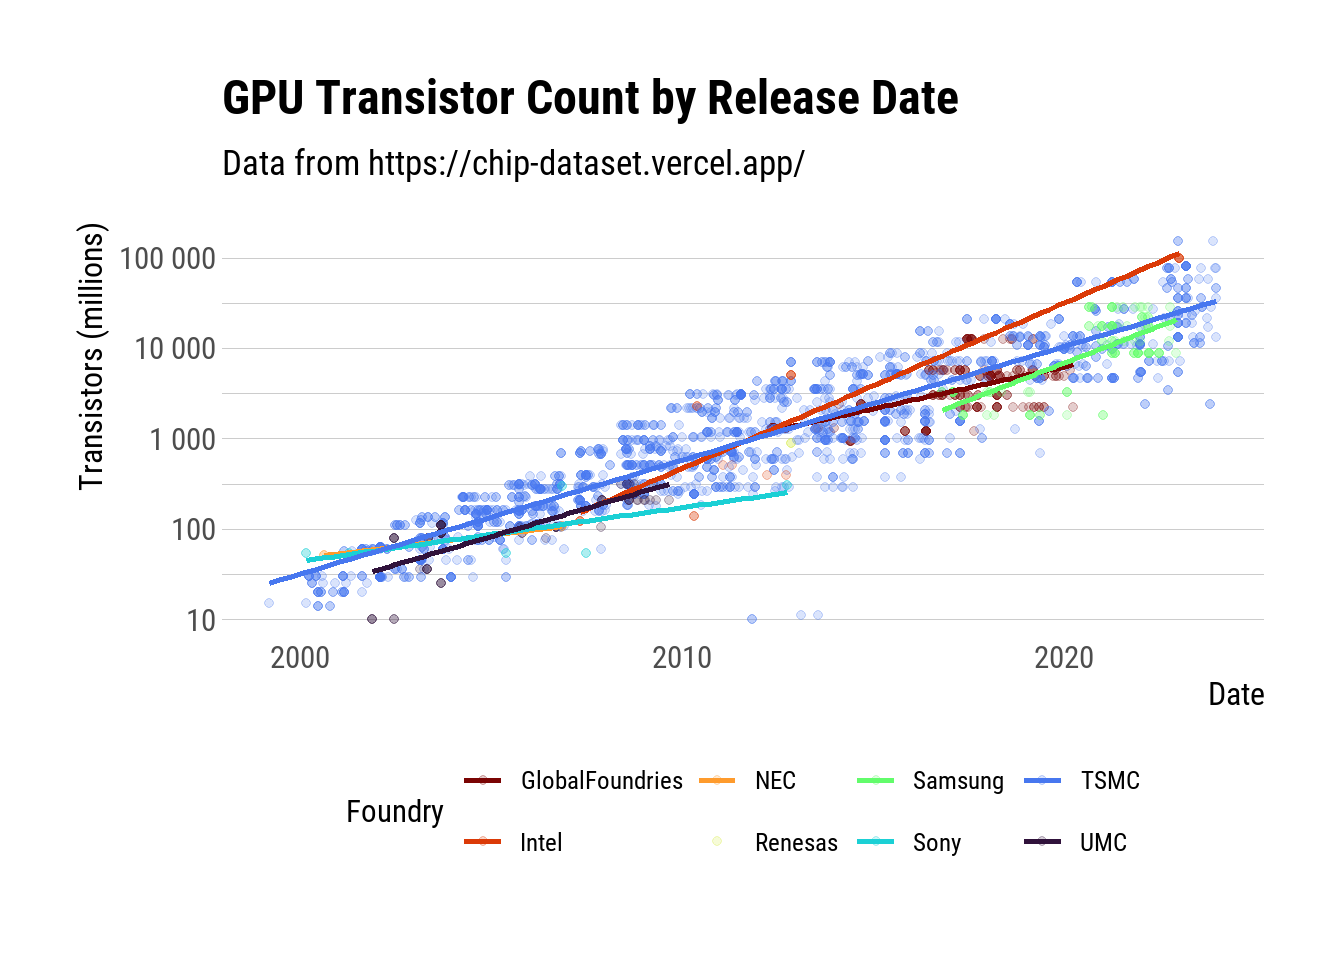
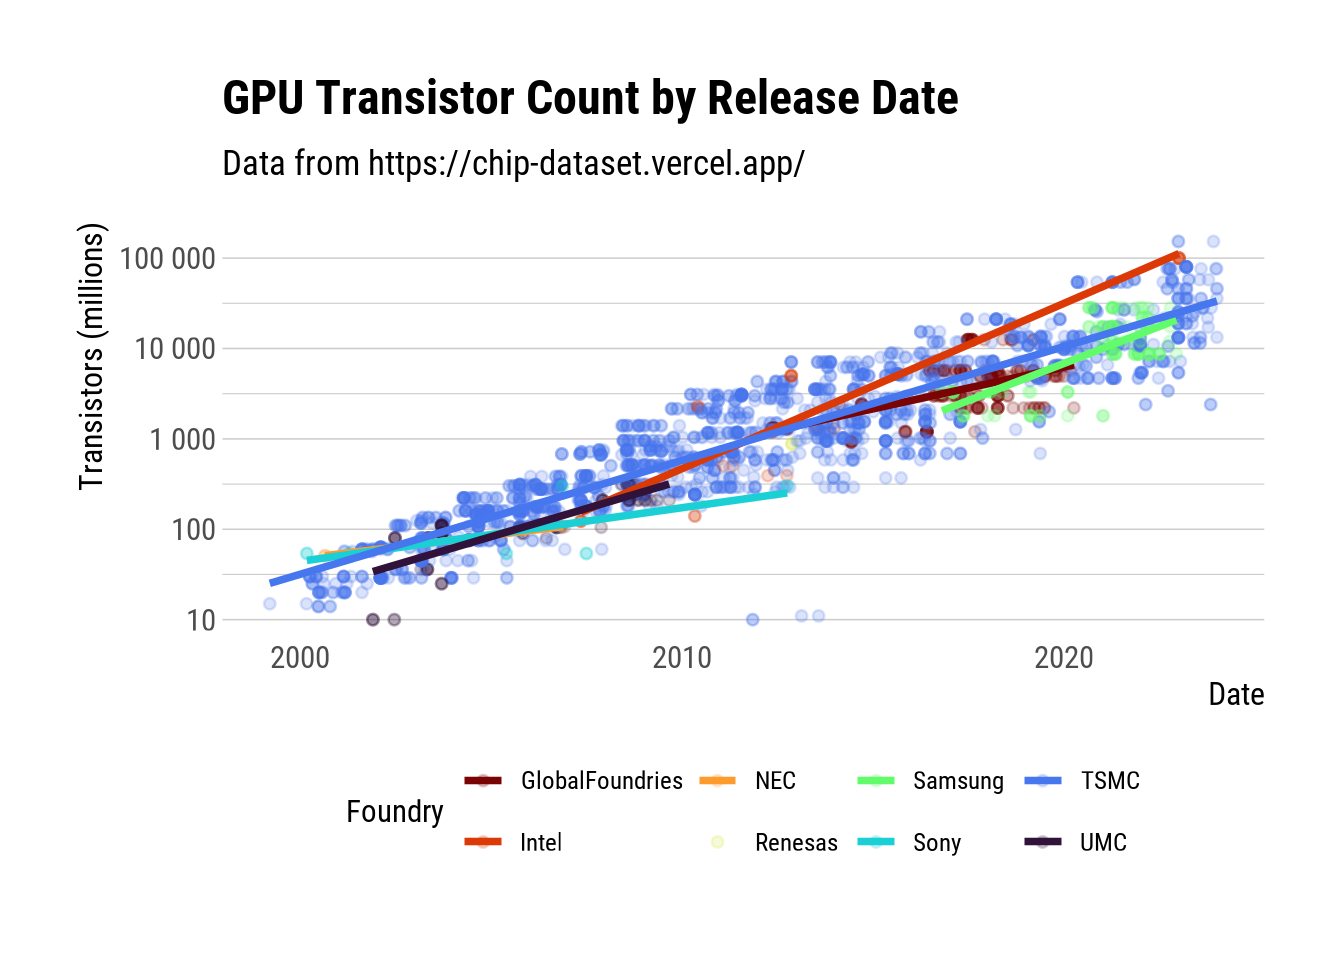
update

Changed region(s): [[0.2188, 0.25, 0.9062, 0.6562], [0.5938, 0.625, 0.625, 0.6562]]

diff --git a/docs/posts/plot_design.html b/docs/posts/plot_design.html
@@ -207,6 +207,12 @@ pre > code.sourceCode > span > a:first-child::before { text-decoration: underlin
     </div>
   </div>
   
+    <div>
+    <div class="quarto-title-meta-heading">Modified</div>
+    <div class="quarto-title-meta-contents">
+      <p class="date-modified">April 9, 2025</p>
+    </div>
+  </div>
     
   </div>
   
@@ -220,28 +226,29 @@ pre > code.sourceCode > span > a:first-child::before { text-decoration: underlin
 <p>Let’s create a rough figure, and see how we can improve it in a few simple steps.</p>
 <div class="cell">
 <div class="sourceCode cell-code" id="cb1"><pre class="sourceCode markdown code-with-copy"><code class="sourceCode markdown"><span id="cb1-1"><a href="#cb1-1" aria-hidden="true" tabindex="-1"></a><span class="in">```{r}</span></span>
-<span id="cb1-2"><a href="#cb1-2" aria-hidden="true" tabindex="-1"></a><span class="in">#| fig-cap: "A rough figure"</span></span>
-<span id="cb1-3"><a href="#cb1-3" aria-hidden="true" tabindex="-1"></a></span>
-<span id="cb1-4"><a href="#cb1-4" aria-hidden="true" tabindex="-1"></a><span class="in">library(ggplot2)</span></span>
-<span id="cb1-5"><a href="#cb1-5" aria-hidden="true" tabindex="-1"></a><span class="in">library(dplyr)</span></span>
-<span id="cb1-6"><a href="#cb1-6" aria-hidden="true" tabindex="-1"></a><span class="in">library(lubridate)</span></span>
-<span id="cb1-7"><a href="#cb1-7" aria-hidden="true" tabindex="-1"></a></span>
-<span id="cb1-8"><a href="#cb1-8" aria-hidden="true" tabindex="-1"></a><span class="in">chips &lt;- read.csv("chip_dataset.csv")</span></span>
-<span id="cb1-9"><a href="#cb1-9" aria-hidden="true" tabindex="-1"></a></span>
-<span id="cb1-10"><a href="#cb1-10" aria-hidden="true" tabindex="-1"></a><span class="in">chips &lt;- chips |&gt; </span></span>
-<span id="cb1-11"><a href="#cb1-11" aria-hidden="true" tabindex="-1"></a><span class="in">  mutate(Date = mdy(Release.Date),</span></span>
-<span id="cb1-12"><a href="#cb1-12" aria-hidden="true" tabindex="-1"></a><span class="in">         transistors = as.numeric(Transistors..million.)) |&gt;</span></span>
-<span id="cb1-13"><a href="#cb1-13" aria-hidden="true" tabindex="-1"></a><span class="in">  filter(Foundry != "" &amp;</span></span>
-<span id="cb1-14"><a href="#cb1-14" aria-hidden="true" tabindex="-1"></a><span class="in">           Type == "GPU" &amp;</span></span>
-<span id="cb1-15"><a href="#cb1-15" aria-hidden="true" tabindex="-1"></a><span class="in">           !is.na(Date) &amp;</span></span>
-<span id="cb1-16"><a href="#cb1-16" aria-hidden="true" tabindex="-1"></a><span class="in">           !is.na(transistors))</span></span>
-<span id="cb1-17"><a href="#cb1-17" aria-hidden="true" tabindex="-1"></a></span>
-<span id="cb1-18"><a href="#cb1-18" aria-hidden="true" tabindex="-1"></a><span class="in">chips |&gt; </span></span>
-<span id="cb1-19"><a href="#cb1-19" aria-hidden="true" tabindex="-1"></a><span class="in">  ggplot(aes(x = Date, </span></span>
-<span id="cb1-20"><a href="#cb1-20" aria-hidden="true" tabindex="-1"></a><span class="in">           y = transistors, </span></span>
-<span id="cb1-21"><a href="#cb1-21" aria-hidden="true" tabindex="-1"></a><span class="in">           color = Foundry)) +</span></span>
-<span id="cb1-22"><a href="#cb1-22" aria-hidden="true" tabindex="-1"></a><span class="in">    geom_point()</span></span>
-<span id="cb1-23"><a href="#cb1-23" aria-hidden="true" tabindex="-1"></a><span class="in">```</span></span></code><button title="Copy to Clipboard" class="code-copy-button"><i class="bi"></i></button></pre></div>
+<span id="cb1-2"><a href="#cb1-2" aria-hidden="true" tabindex="-1"></a><span class="in">#| dev: "CairoPNG" </span></span>
+<span id="cb1-3"><a href="#cb1-3" aria-hidden="true" tabindex="-1"></a><span class="in">#| fig-cap: "A rough figure"</span></span>
+<span id="cb1-4"><a href="#cb1-4" aria-hidden="true" tabindex="-1"></a></span>
+<span id="cb1-5"><a href="#cb1-5" aria-hidden="true" tabindex="-1"></a><span class="in">library(ggplot2)</span></span>
+<span id="cb1-6"><a href="#cb1-6" aria-hidden="true" tabindex="-1"></a><span class="in">library(dplyr)</span></span>
+<span id="cb1-7"><a href="#cb1-7" aria-hidden="true" tabindex="-1"></a><span class="in">library(lubridate)</span></span>
+<span id="cb1-8"><a href="#cb1-8" aria-hidden="true" tabindex="-1"></a></span>
+<span id="cb1-9"><a href="#cb1-9" aria-hidden="true" tabindex="-1"></a><span class="in">chips &lt;- read.csv("chip_dataset.csv")</span></span>
+<span id="cb1-10"><a href="#cb1-10" aria-hidden="true" tabindex="-1"></a></span>
+<span id="cb1-11"><a href="#cb1-11" aria-hidden="true" tabindex="-1"></a><span class="in">chips &lt;- chips |&gt; </span></span>
+<span id="cb1-12"><a href="#cb1-12" aria-hidden="true" tabindex="-1"></a><span class="in">  mutate(Date = mdy(Release.Date),</span></span>
+<span id="cb1-13"><a href="#cb1-13" aria-hidden="true" tabindex="-1"></a><span class="in">         transistors = as.numeric(Transistors..million.)) |&gt;</span></span>
+<span id="cb1-14"><a href="#cb1-14" aria-hidden="true" tabindex="-1"></a><span class="in">  filter(Foundry != "" &amp;</span></span>
+<span id="cb1-15"><a href="#cb1-15" aria-hidden="true" tabindex="-1"></a><span class="in">           Type == "GPU" &amp;</span></span>
+<span id="cb1-16"><a href="#cb1-16" aria-hidden="true" tabindex="-1"></a><span class="in">           !is.na(Date) &amp;</span></span>
+<span id="cb1-17"><a href="#cb1-17" aria-hidden="true" tabindex="-1"></a><span class="in">           !is.na(transistors))</span></span>
+<span id="cb1-18"><a href="#cb1-18" aria-hidden="true" tabindex="-1"></a></span>
+<span id="cb1-19"><a href="#cb1-19" aria-hidden="true" tabindex="-1"></a><span class="in">chips |&gt; </span></span>
+<span id="cb1-20"><a href="#cb1-20" aria-hidden="true" tabindex="-1"></a><span class="in">  ggplot(aes(x = Date, </span></span>
+<span id="cb1-21"><a href="#cb1-21" aria-hidden="true" tabindex="-1"></a><span class="in">           y = transistors, </span></span>
+<span id="cb1-22"><a href="#cb1-22" aria-hidden="true" tabindex="-1"></a><span class="in">           color = Foundry)) +</span></span>
+<span id="cb1-23"><a href="#cb1-23" aria-hidden="true" tabindex="-1"></a><span class="in">    geom_point()</span></span>
+<span id="cb1-24"><a href="#cb1-24" aria-hidden="true" tabindex="-1"></a><span class="in">```</span></span></code><button title="Copy to Clipboard" class="code-copy-button"><i class="bi"></i></button></pre></div>
 <div class="cell-output-display">
 <div class="quarto-figure quarto-figure-center">
 <figure class="figure">
@@ -265,30 +272,31 @@ pre > code.sourceCode > span > a:first-child::before { text-decoration: underlin
 <p>We’ll apply the tips described above, as well as rescaling the y-axis and adding some trendlines. Do you think this is a more effective figure?</p>
 <div class="cell">
 <div class="sourceCode cell-code" id="cb2"><pre class="sourceCode markdown code-with-copy"><code class="sourceCode markdown"><span id="cb2-1"><a href="#cb2-1" aria-hidden="true" tabindex="-1"></a><span class="in">```{r}</span></span>
-<span id="cb2-2"><a href="#cb2-2" aria-hidden="true" tabindex="-1"></a><span class="in">#| label: feature-image</span></span>
-<span id="cb2-3"><a href="#cb2-3" aria-hidden="true" tabindex="-1"></a><span class="in">#| fig-cap: "The final figure"</span></span>
-<span id="cb2-4"><a href="#cb2-4" aria-hidden="true" tabindex="-1"></a></span>
-<span id="cb2-5"><a href="#cb2-5" aria-hidden="true" tabindex="-1"></a><span class="in">library(hrbrthemes)</span></span>
-<span id="cb2-6"><a href="#cb2-6" aria-hidden="true" tabindex="-1"></a><span class="in">library(sysfonts)</span></span>
-<span id="cb2-7"><a href="#cb2-7" aria-hidden="true" tabindex="-1"></a><span class="in">library(viridis)</span></span>
-<span id="cb2-8"><a href="#cb2-8" aria-hidden="true" tabindex="-1"></a><span class="in">library(scales)</span></span>
-<span id="cb2-9"><a href="#cb2-9" aria-hidden="true" tabindex="-1"></a></span>
-<span id="cb2-10"><a href="#cb2-10" aria-hidden="true" tabindex="-1"></a><span class="in">font_add_google("Roboto Condensed")</span></span>
-<span id="cb2-11"><a href="#cb2-11" aria-hidden="true" tabindex="-1"></a></span>
-<span id="cb2-12"><a href="#cb2-12" aria-hidden="true" tabindex="-1"></a><span class="in">chips |&gt;</span></span>
-<span id="cb2-13"><a href="#cb2-13" aria-hidden="true" tabindex="-1"></a><span class="in">  ggplot(aes(x = Date, y = transistors, color = Foundry)) +</span></span>
-<span id="cb2-14"><a href="#cb2-14" aria-hidden="true" tabindex="-1"></a><span class="in">  geom_point(alpha = 0.2) +</span></span>
-<span id="cb2-15"><a href="#cb2-15" aria-hidden="true" tabindex="-1"></a><span class="in">  geom_smooth(method = "lm", se = FALSE, alpha = 0.5) +</span></span>
-<span id="cb2-16"><a href="#cb2-16" aria-hidden="true" tabindex="-1"></a><span class="in">  scale_colour_viridis_d(option = "H", direction = -1) +</span></span>
-<span id="cb2-17"><a href="#cb2-17" aria-hidden="true" tabindex="-1"></a><span class="in">  scale_y_log10(labels = label_number()) +</span></span>
-<span id="cb2-18"><a href="#cb2-18" aria-hidden="true" tabindex="-1"></a><span class="in">  theme_ipsum_rc(axis_title_size = 12) +</span></span>
-<span id="cb2-19"><a href="#cb2-19" aria-hidden="true" tabindex="-1"></a><span class="in">  theme(legend.position = "bottom",</span></span>
-<span id="cb2-20"><a href="#cb2-20" aria-hidden="true" tabindex="-1"></a><span class="in">        panel.grid.major.x = element_blank(),</span></span>
-<span id="cb2-21"><a href="#cb2-21" aria-hidden="true" tabindex="-1"></a><span class="in">        panel.grid.minor.x = element_blank()) +</span></span>
-<span id="cb2-22"><a href="#cb2-22" aria-hidden="true" tabindex="-1"></a><span class="in">  labs(y = "Transistors (millions)",</span></span>
-<span id="cb2-23"><a href="#cb2-23" aria-hidden="true" tabindex="-1"></a><span class="in">       title = "GPU Transistor Count by Release Date",</span></span>
-<span id="cb2-24"><a href="#cb2-24" aria-hidden="true" tabindex="-1"></a><span class="in">       subtitle = "Data from https://chip-dataset.vercel.app/")</span></span>
-<span id="cb2-25"><a href="#cb2-25" aria-hidden="true" tabindex="-1"></a><span class="in">```</span></span></code><button title="Copy to Clipboard" class="code-copy-button"><i class="bi"></i></button></pre></div>
+<span id="cb2-2"><a href="#cb2-2" aria-hidden="true" tabindex="-1"></a><span class="in">#| dev: "CairoPNG" </span></span>
+<span id="cb2-3"><a href="#cb2-3" aria-hidden="true" tabindex="-1"></a><span class="in">#| label: feature-image</span></span>
+<span id="cb2-4"><a href="#cb2-4" aria-hidden="true" tabindex="-1"></a><span class="in">#| fig-cap: "The final figure"</span></span>
+<span id="cb2-5"><a href="#cb2-5" aria-hidden="true" tabindex="-1"></a></span>
+<span id="cb2-6"><a href="#cb2-6" aria-hidden="true" tabindex="-1"></a><span class="in">library(hrbrthemes)</span></span>
+<span id="cb2-7"><a href="#cb2-7" aria-hidden="true" tabindex="-1"></a><span class="in">library(sysfonts)</span></span>
+<span id="cb2-8"><a href="#cb2-8" aria-hidden="true" tabindex="-1"></a><span class="in">library(viridis)</span></span>
+<span id="cb2-9"><a href="#cb2-9" aria-hidden="true" tabindex="-1"></a><span class="in">library(scales)</span></span>
+<span id="cb2-10"><a href="#cb2-10" aria-hidden="true" tabindex="-1"></a></span>
+<span id="cb2-11"><a href="#cb2-11" aria-hidden="true" tabindex="-1"></a><span class="in">font_add_google("Roboto Condensed")</span></span>
+<span id="cb2-12"><a href="#cb2-12" aria-hidden="true" tabindex="-1"></a></span>
+<span id="cb2-13"><a href="#cb2-13" aria-hidden="true" tabindex="-1"></a><span class="in">chips |&gt;</span></span>
+<span id="cb2-14"><a href="#cb2-14" aria-hidden="true" tabindex="-1"></a><span class="in">  ggplot(aes(x = Date, y = transistors, color = Foundry)) +</span></span>
+<span id="cb2-15"><a href="#cb2-15" aria-hidden="true" tabindex="-1"></a><span class="in">  geom_point(alpha = 0.2) +</span></span>
+<span id="cb2-16"><a href="#cb2-16" aria-hidden="true" tabindex="-1"></a><span class="in">  geom_smooth(method = "lm", se = FALSE, alpha = 0.5) +</span></span>
+<span id="cb2-17"><a href="#cb2-17" aria-hidden="true" tabindex="-1"></a><span class="in">  scale_colour_viridis_d(option = "H", direction = -1) +</span></span>
+<span id="cb2-18"><a href="#cb2-18" aria-hidden="true" tabindex="-1"></a><span class="in">  scale_y_log10(labels = label_number()) +</span></span>
+<span id="cb2-19"><a href="#cb2-19" aria-hidden="true" tabindex="-1"></a><span class="in">  theme_ipsum_rc(axis_title_size = 12) +</span></span>
+<span id="cb2-20"><a href="#cb2-20" aria-hidden="true" tabindex="-1"></a><span class="in">  theme(legend.position = "bottom",</span></span>
+<span id="cb2-21"><a href="#cb2-21" aria-hidden="true" tabindex="-1"></a><span class="in">        panel.grid.major.x = element_blank(),</span></span>
+<span id="cb2-22"><a href="#cb2-22" aria-hidden="true" tabindex="-1"></a><span class="in">        panel.grid.minor.x = element_blank()) +</span></span>
+<span id="cb2-23"><a href="#cb2-23" aria-hidden="true" tabindex="-1"></a><span class="in">  labs(y = "Transistors (millions)",</span></span>
+<span id="cb2-24"><a href="#cb2-24" aria-hidden="true" tabindex="-1"></a><span class="in">       title = "GPU Transistor Count by Release Date",</span></span>
+<span id="cb2-25"><a href="#cb2-25" aria-hidden="true" tabindex="-1"></a><span class="in">       subtitle = "Data from https://chip-dataset.vercel.app/")</span></span>
+<span id="cb2-26"><a href="#cb2-26" aria-hidden="true" tabindex="-1"></a><span class="in">```</span></span></code><button title="Copy to Clipboard" class="code-copy-button"><i class="bi"></i></button></pre></div>
 <div class="cell-output-display">
 <div class="quarto-figure quarto-figure-center">
 <figure class="figure">

diff --git a/docs/listings.html b/docs/listings.html
@@ -227,7 +227,7 @@ window.Quarto = {
 
 <div class="quarto-listing quarto-listing-container-default" id="listing-listing">
 <div class="list quarto-listing-default">
-<div class="quarto-post image-right" data-index="0" data-categories="Ug==" data-listing-date-sort="1743861600000" data-listing-file-modified-sort="1743905273824" data-listing-date-modified-sort="NaN" data-listing-reading-time-sort="3" data-listing-word-count-sort="451">
+<div class="quarto-post image-right" data-index="0" data-categories="Ug==" data-listing-date-sort="1743861600000" data-listing-file-modified-sort="1744186993283" data-listing-date-modified-sort="1744120800000" data-listing-reading-time-sort="3" data-listing-word-count-sort="457">
 <div class="thumbnail">
 <p><a href="./posts/plot_design.html" class="no-external"></a></p><a href="./posts/plot_design.html" class="no-external">
 <p class="card-img-top"><img src="posts\plot_design_files\figure-html\feature-image-1.png"  class="thumbnail-image card-img"/></p>
@@ -260,7 +260,7 @@ Boyd Tarlinton
 </a>
 </div>
 </div>
-<div class="quarto-post image-right" data-index="1" data-categories="Ug==" data-listing-date-sort="1743170400000" data-listing-file-modified-sort="1743203325632" data-listing-date-modified-sort="NaN" data-listing-reading-time-sort="2" data-listing-word-count-sort="283">
+<div class="quarto-post image-right" data-index="1" data-categories="Ug==" data-listing-date-sort="1743170400000" data-listing-file-modified-sort="1744186983827" data-listing-date-modified-sort="1744120800000" data-listing-reading-time-sort="2" data-listing-word-count-sort="286">
 <div class="thumbnail">
 <p><a href="./posts/quarto_plots.html" class="no-external"></a></p><a href="./posts/quarto_plots.html" class="no-external">
 <p class="card-img-top"><img src="posts\quarto_plots_files\figure-html\unnamed-chunk-2-1.png"  class="thumbnail-image card-img"/></p>

diff --git a/docs/posts/quarto_plots.html b/docs/posts/quarto_plots.html
@@ -209,6 +209,12 @@ pre > code.sourceCode > span > a:first-child::before { text-decoration: underlin
     </div>
   </div>
   
+    <div>
+    <div class="quarto-title-meta-heading">Modified</div>
+    <div class="quarto-title-meta-contents">
+      <p class="date-modified">April 9, 2025</p>
+    </div>
+  </div>
     
   </div>
   
